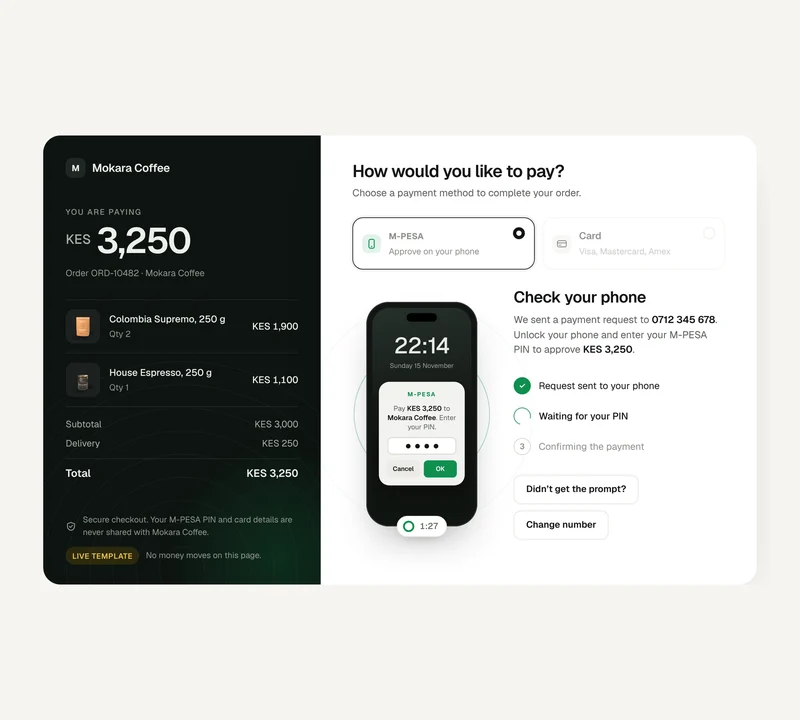
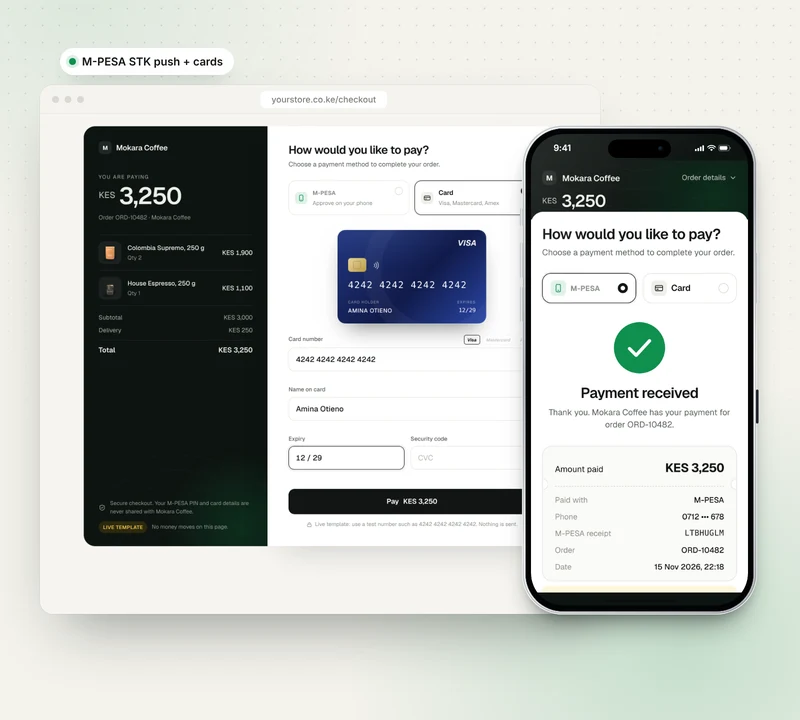
Pay Kit: iPhone 17 Pro Max mockup for the M-PESA prompt and a new product preview
Claude-Session: https://claude.ai/code/session_01QHU95bsMraAsMh3RSFKTgA

diff --git a/pay-kit/pay.css b/pay-kit/pay.css
@@ -99,20 +99,19 @@ button { cursor: pointer; background: none; border: 0; }
 .links { margin-top: 18px; display: flex; flex-wrap: wrap; justify-content: center; gap: 8px 22px; font-size: 14px; }
 
 /* ---------- M-PESA: the phone prompt ---------- */
-.wait { display: grid; grid-template-columns: 210px 1fr; gap: 34px; align-items: center; }
-.phone-wrap { position: relative; width: 210px; height: 360px; display: grid; place-items: center; }
-.ring { position: absolute; left: 50%; top: 50%; width: 170px; height: 170px; margin: -85px 0 0 -85px; border-radius: 50%; border: 1.5px solid var(--mpesa); opacity: 0; animation: ripple 3s var(--ease) infinite; }
+.wait { display: grid; grid-template-columns: 220px 1fr; gap: 34px; align-items: center; }
+.phone-wrap { position: relative; width: 220px; height: 450px; display: grid; place-items: center; }
+.ring { position: absolute; left: 50%; top: 50%; width: 180px; height: 180px; margin: -90px 0 0 -90px; border-radius: 50%; border: 1.5px solid var(--mpesa); opacity: 0; animation: ripple 3s var(--ease) infinite; }
 .ring:nth-child(2) { animation-delay: 1s; } .ring:nth-child(3) { animation-delay: 2s; }
 @keyframes ripple { 0% { transform: scale(.6); opacity: .55; } 100% { transform: scale(2.1); opacity: 0; } }
 .done .ring, .fail .ring { display: none; }
-.phone { position: relative; width: 168px; height: 340px; border-radius: 34px; background: #121513; padding: 9px; box-shadow: 0 30px 60px -24px rgba(14,20,17,.45), inset 0 0 0 1.5px #2D322E; animation: buzz 3s ease-in-out infinite; }
+.phone { position: relative; width: 196px; --ip-scr: #141A16; --ip-ink: #fff; animation: buzz 3s ease-in-out infinite; }
 @keyframes buzz { 0%, 86%, 100% { transform: rotate(0); } 88% { transform: rotate(-2.5deg); } 90% { transform: rotate(2.5deg); } 92% { transform: rotate(-2deg); } 94% { transform: rotate(1.5deg); } }
 .done .phone, .fail .phone { animation: none; }
-.phone .scr { position: relative; height: 100%; border-radius: 26px; overflow: hidden; background: linear-gradient(170deg, #26302A, #101411 60%); }
-.phone .isl { position: absolute; left: 50%; top: 8px; width: 46px; height: 13px; margin-left: -23px; border-radius: 9px; background: #000; z-index: 3; }
-.phone .clock { position: absolute; left: 0; right: 0; top: 40px; text-align: center; color: rgba(255,255,255,.9); font: 500 34px/1 var(--f); letter-spacing: -.02em; }
-.phone .date { position: absolute; left: 0; right: 0; top: 80px; text-align: center; color: rgba(255,255,255,.55); font-size: 10px; }
-.sheet { position: absolute; left: 10px; right: 10px; top: 112px; border-radius: 16px; background: rgba(250,250,247,.97); color: var(--t1); padding: 13px 12px 12px; text-align: center; box-shadow: 0 10px 30px rgba(0,0,0,.35); transform: translateY(16px) scale(.94); opacity: 0; animation: pop .7s var(--ease) .5s forwards; }
+.phone .scr { background: radial-gradient(120% 70% at 50% 0%, #2B3A31, #121714 70%); }
+.phone .clock { position: absolute; z-index: 2; left: 0; right: 0; top: 16%; text-align: center; color: rgba(255,255,255,.92); font: 500 40px/1 var(--f); letter-spacing: -.02em; }
+.phone .date { position: absolute; z-index: 2; left: 0; right: 0; top: 11%; text-align: center; color: rgba(255,255,255,.6); font-size: 10.5px; font-weight: 500; }
+.sheet { position: absolute; z-index: 2; left: 9px; right: 9px; top: 33%; border-radius: 16px; background: rgba(250,250,247,.97); color: var(--t1); padding: 13px 12px 12px; text-align: center; box-shadow: 0 10px 30px rgba(0,0,0,.35); transform: translateY(16px) scale(.94); opacity: 0; animation: pop .7s var(--ease) .5s forwards; }
 @keyframes pop { to { transform: none; opacity: 1; } }
 .sheet .h { font-size: 9px; font-weight: 700; letter-spacing: .14em; color: var(--mpesa); }
 .sheet .w { margin-top: 6px; font-size: 10.5px; line-height: 1.35; color: var(--t2); }
@@ -125,10 +124,10 @@ button { cursor: pointer; background: none; border: 0; }
 .sheet .bt span { padding: 6px 0; border-radius: 6px; background: #ECEBE6; }
 .sheet .bt span + span { background: var(--mpesa); color: #fff; }
 .done .sheet .pin, .done .sheet .bt, .fail .sheet .pin, .fail .sheet .bt { display: none; }
-.badge-ok { position: absolute; z-index: 4; left: 50%; top: 50%; width: 64px; height: 64px; margin: -32px 0 0 -32px; border-radius: 50%; display: grid; place-items: center; background: var(--ok); color: #fff; box-shadow: 0 0 0 10px color-mix(in srgb, var(--ok) 18%, transparent); animation: boom .6s var(--ease) both; }
+.badge-ok { position: absolute; z-index: 5; left: 50%; top: 50%; width: 64px; height: 64px; margin: -32px 0 0 -32px; border-radius: 50%; display: grid; place-items: center; background: var(--ok); color: #fff; box-shadow: 0 0 0 10px color-mix(in srgb, var(--ok) 18%, transparent); animation: boom .6s var(--ease) both; }
 .badge-ok.no { background: var(--err); box-shadow: 0 0 0 10px rgba(194,59,34,.16); }
 @keyframes boom { from { transform: scale(.3); opacity: 0; } }
-.timer { position: absolute; left: 50%; bottom: -6px; transform: translateX(-50%); display: flex; align-items: center; gap: 8px; padding: 6px 12px 6px 8px; border-radius: 99px; background: #fff; border: 1px solid var(--line); font: 500 13px var(--f); color: var(--t2); font-variant-numeric: tabular-nums; white-space: nowrap; box-shadow: 0 6px 18px -10px rgba(0,0,0,.3); }
+.timer { position: absolute; z-index: 6; left: 50%; bottom: -8px; transform: translateX(-50%); display: flex; align-items: center; gap: 8px; padding: 6px 12px 6px 8px; border-radius: 99px; background: #fff; border: 1px solid var(--line); font: 500 13px var(--f); color: var(--t2); font-variant-numeric: tabular-nums; white-space: nowrap; box-shadow: 0 6px 18px -10px rgba(0,0,0,.3); }
 .timer svg { transform: rotate(-90deg); }
 .timer circle { fill: none; stroke-width: 3; }
 .timer .bg { stroke: #ECEBE6; } .timer .fg { stroke: var(--mpesa); stroke-linecap: round; transition: stroke-dashoffset 1s linear; }
@@ -228,7 +227,7 @@ button { cursor: pointer; background: none; border: 0; }
 
 /* ---------- demo panel ---------- */
 .demo { position: fixed; z-index: 50; right: 18px; bottom: 18px; display: flex; align-items: center; gap: 10px; padding: 8px 8px 8px 14px; border-radius: 14px; background: #121513; color: #EDEFEA; font-size: 13px; box-shadow: 0 18px 40px -16px rgba(0,0,0,.5); }
-.demo b { color: #F2C14E; font-weight: 600; letter-spacing: .06em; font-size: 11.5px; }
+.demo b { white-space: nowrap; color: #F2C14E; font-weight: 600; letter-spacing: .06em; font-size: 11.5px; }
 .demo select { height: 34px; border-radius: 9px; border: 1px solid #2E342F; background: #1C211D; color: #EDEFEA; padding: 0 10px; font-size: 13px; }
 
 /* ---------- small screens ---------- */
@@ -247,7 +246,7 @@ button { cursor: pointer; background: none; border: 0; }
   .sum .amtrow { margin-top: 14px; display: flex; align-items: flex-end; justify-content: space-between; }
   .pay { border-radius: 22px 22px 0 0; margin-top: -14px; padding: 26px 20px 30px; min-height: 0; box-shadow: none; }
   .wait { grid-template-columns: 1fr; gap: 18px; text-align: center; }
-  .phone-wrap { margin: 0 auto; transform: scale(.86); height: 320px; }
+  .phone-wrap { margin: 0 auto; transform: scale(.86); height: 400px; transform-origin: 50% 40%; }
   .steps { justify-items: center; }
   .acts { justify-content: center; }
   .cc { transform: scale(.92) rotateX(var(--rx)) rotateY(var(--ry)); }

diff --git a/pay-kit/ip17.css b/pay-kit/ip17.css
@@ -1,0 +1,38 @@
+/* ============================================================
+   iPhone 17 Pro Max mockup — shared by every phone mockup on the site.
+   Proportions follow the 6.9" display (440 × 956 pt): thin uniform
+   bezels, Dynamic Island, aluminium frame with Action button, volume,
+   side button and Camera Control. All sizes are in cqw of .ip17, so
+   the phone scales cleanly at any width.
+
+   <div class="ip17 ip17--blue">                (sets the width)
+     <div class="ip17__body"><i class="ip17__k ip17__k--act"></i>…
+       <div class="ip17__bezel"><div class="ip17__scr">
+         <div class="ip17__sb">9:41 + icons</div><i class="ip17__di"></i>
+         <img|video>  <i class="ip17__hb"></i>
+   ============================================================ */
+.ip17{container-type:inline-size;--ip-a:#56678A;--ip-b:#1C2539;--ip-hi:rgba(255,255,255,.55);--ip-scr:#fff;--ip-ink:#111}
+.ip17--blue{--ip-a:#56678A;--ip-b:#1C2539;--ip-hi:rgba(214,226,255,.55)}           /* Deep Blue */
+.ip17--orange{--ip-a:#F39A55;--ip-b:#B4501A;--ip-hi:rgba(255,214,180,.7)}          /* Cosmic Orange */
+.ip17--silver{--ip-a:#F4F5F6;--ip-b:#AEB2B8;--ip-hi:rgba(255,255,255,.95)}         /* Silver */
+.ip17__body{position:relative;border-radius:17.4cqw;padding:1.45cqw;
+  background:linear-gradient(140deg,var(--ip-a) 0%,var(--ip-b) 38%,var(--ip-a) 62%,var(--ip-b) 100%);
+  box-shadow:inset 0 0 0 .3cqw var(--ip-hi),inset 0 0 0 .75cqw rgba(0,0,0,.18),0 40px 60px -28px rgba(14,22,18,.55),0 12px 24px -12px rgba(14,22,18,.3)}
+.ip17__bezel{border-radius:16cqw;background:#030405;padding:2.35cqw;box-shadow:inset 0 0 0 .25cqw #1A1C20}
+.ip17__scr{position:relative;display:flex;flex-direction:column;aspect-ratio:440/956;border-radius:13.7cqw;overflow:hidden;background:var(--ip-scr);-webkit-mask-image:-webkit-radial-gradient(white,black);isolation:isolate;padding-bottom:5.6cqw}
+/* the bottom 34pt is the home-indicator safe area, as on iOS — content never sits under the bar */
+.ip17__scr::after{content:"";position:absolute;inset:0;z-index:3;pointer-events:none;background:linear-gradient(125deg,rgba(255,255,255,.10) 0%,rgba(255,255,255,0) 34%)}
+/* status bar sits in the safe area beside the Dynamic Island */
+.ip17__sb{flex:none;position:relative;z-index:2;height:11.4cqw;display:flex;align-items:center;justify-content:space-between;padding:.6cqw 7.2cqw 0 9.6cqw;background:var(--ip-scr);color:var(--ip-ink);font:600 3.75cqw/1 -apple-system,BlinkMacSystemFont,"SF Pro Text",Inter,"Segoe UI",system-ui,sans-serif;letter-spacing:-.01em}
+.ip17__sb svg{width:15.4cqw;height:auto;fill:currentColor;stroke:currentColor;display:block}
+.ip17__di{position:absolute;z-index:4;left:50%;top:2.35cqw;width:26.8cqw;height:7.8cqw;margin-left:-13.4cqw;border-radius:5cqw;background:#000}
+.ip17__di::after{content:"";position:absolute;right:3.2cqw;top:50%;width:2.4cqw;height:2.4cqw;margin-top:-1.2cqw;border-radius:50%;background:radial-gradient(circle at 35% 35%,#1E2A44 0%,#05070C 60%)}
+.ip17__scr>img,.ip17__scr>video{position:relative;z-index:1;flex:1;min-height:0;width:100%;height:auto;object-fit:cover;object-position:top center;display:block;border-radius:0}
+.ip17__hb{position:absolute;z-index:4;left:50%;bottom:1.7cqw;width:30cqw;height:1.05cqw;margin-left:-15cqw;border-radius:1cqw;background:rgba(10,10,10,.82)}
+/* buttons on the aluminium frame */
+.ip17__k{position:absolute;width:1.15cqw;border-radius:.7cqw;background:linear-gradient(90deg,var(--ip-b),var(--ip-a) 60%,var(--ip-b))}
+.ip17__k--act{left:-.85cqw;top:17%;height:3.6%}
+.ip17__k--vu{left:-.85cqw;top:24%;height:7.2%}
+.ip17__k--vd{left:-.85cqw;top:33%;height:7.2%}
+.ip17__k--pwr{right:-.85cqw;top:26%;height:10.5%}
+.ip17__k--cam{right:-.55cqw;top:54%;height:7%;width:.9cqw;background:linear-gradient(90deg,#0B0D12,#2A3142 55%,#0B0D12)}

diff --git a/pay-kit/pay.js b/pay-kit/pay.js
@@ -125,10 +125,11 @@
 
   function mpWait() {
     methodsLocked(true);
-    var now = new Date(), W = waitFor();
+    var now = new Date(), W = waitFor(), hm = now.toLocaleTimeString('en-GB', { hour: '2-digit', minute: '2-digit' });
     var st = view('<div class="wait" id="wv"><div class="phone-wrap" aria-hidden="true"><i class="ring"></i><i class="ring"></i><i class="ring"></i>' +
-      '<div class="phone"><div class="scr"><i class="isl"></i><div class="clock num">' + now.toLocaleTimeString('en-GB', { hour: '2-digit', minute: '2-digit' }) + '</div><div class="date">' + now.toLocaleDateString('en-GB', { weekday: 'long', day: 'numeric', month: 'long' }) + '</div>' +
-      '<div class="sheet"><div class="h">M-PESA</div><div class="w">Pay <b>' + money(TOTAL) + '</b> to <b>' + esc(C.merchant.name) + '</b>. Enter your PIN.</div><div class="pin"><i></i><i></i><i></i><i></i></div><div class="bt"><span>Cancel</span><span>OK</span></div></div></div></div>' +
+      '<div class="phone ip17 ip17--silver"><div class="ip17__body"><i class="ip17__k ip17__k--act"></i><i class="ip17__k ip17__k--vu"></i><i class="ip17__k ip17__k--vd"></i><i class="ip17__k ip17__k--pwr"></i><i class="ip17__k ip17__k--cam"></i><div class="ip17__bezel"><div class="ip17__scr scr"><div class="ip17__sb"><span>' + hm + '</span><svg viewBox="0 0 68 13" aria-hidden="true"><rect x="0" y="8.5" width="3" height="4" rx="1" stroke="none"/><rect x="4.6" y="6.5" width="3" height="6" rx="1" stroke="none"/><rect x="9.2" y="4" width="3" height="8.5" rx="1" stroke="none"/><rect x="13.8" y="1.5" width="3" height="11" rx="1" stroke="none"/><path d="M31 12.4 28.5 9.7a3.5 3.5 0 0 1 5 0Z" stroke="none"/><path d="M26.1 7.3a6.9 6.9 0 0 1 9.8 0M23.7 4.8a10.3 10.3 0 0 1 14.6 0" fill="none" stroke-width="1.7" stroke-linecap="round"/><rect x="44.5" y="1.2" width="20" height="10.6" rx="3.2" fill="none" stroke-width="1.1" opacity=".45"/><rect x="46.3" y="3" width="14.6" height="7" rx="1.7" stroke="none"/><rect x="65.6" y="4.6" width="1.6" height="3.8" rx=".8" stroke="none" opacity=".45"/></svg></div><i class="ip17__di"></i>' +
+      '<div class="clock num">' + hm + '</div><div class="date">' + now.toLocaleDateString('en-GB', { weekday: 'long', day: 'numeric', month: 'long' }) + '</div>' +
+      '<div class="sheet"><div class="h">M-PESA</div><div class="w">Pay <b>' + money(TOTAL) + '</b> to <b>' + esc(C.merchant.name) + '</b>. Enter your PIN.</div><div class="pin"><i></i><i></i><i></i><i></i></div><div class="bt"><span>Cancel</span><span>OK</span></div></div><i class="ip17__hb"></i></div></div></div></div>' +
       '<div class="timer" id="tm"><svg width="18" height="18" viewBox="0 0 20 20"><circle class="bg" cx="10" cy="10" r="8"/><circle class="fg" id="tmc" cx="10" cy="10" r="8" stroke-dasharray="50.27" stroke-dashoffset="0"/></svg><span id="tmt">' + clock(W) + '</span></div></div>' +
       '<div><h2 tabindex="-1" id="wh">Check your phone</h2><p>We sent a payment request to <b>' + showPhone(S.mp.phone) + '</b>. Unlock your phone and enter your M-PESA PIN to approve <b>' + money(TOTAL) + '</b>.</p>' +
       '<ol class="steps"><li id="s1"><span class="s">1</span>Request sent to your phone</li><li id="s2"><span class="s">2</span>Waiting for your PIN</li><li id="s3"><span class="s">3</span>Confirming the payment</li></ol>' +

diff --git a/data/products.js b/data/products.js
@@ -17,7 +17,7 @@ window.CIEL.products = [
   { id:"prd-test", art:"mpesa-stk", name:"Test Product (M-Pesa test)", category:"Payments & M-Pesa", desc:"A KES 10 test item for checking M-Pesa checkout end to end. This product removes itself automatically after 24 hours.", meta:"Test only · KES 10 · Auto-expires", price:10, rating:5.0, reviews:0, badge:"new", image:"", expires:1792655280000 },
 
   /* Pay Kit: live template at /pay-kit/ (settings in pay-kit/config.js) */
-  { id:"prd-paykit", art:"mpesa-stk", name:"Pay Kit: M-PESA & Card Checkout", category:"Payments & M-Pesa", desc:"A checkout page for M-PESA STK push and cards: a live phone prompt with countdown and status, a live card preview, bank verification, clear failure messages and printable receipts. Connects to your Daraja and card provider endpoints.", meta:"STK push · Cards · Receipts · Mobile-first", price:5000, link:"/pay-kit/", cta:"Live template", rating:5.0, reviews:0, badge:"new", image:"/assets/img/products/pay-kit.webp?v=20261115b" },
+  { id:"prd-paykit", art:"mpesa-stk", name:"Pay Kit: M-PESA & Card Checkout", category:"Payments & M-Pesa", desc:"A checkout page for M-PESA STK push and cards: a live phone prompt with countdown and status, a live card preview, bank verification, clear failure messages and printable receipts. Connects to your Daraja and card provider endpoints.", meta:"STK push · Cards · Receipts · Mobile-first", price:5000, link:"/pay-kit/", cta:"Live template", rating:5.0, reviews:0, badge:"new", image:"/assets/img/products/pay-kit.webp?v=20261115c" },
   { id:"prd-01", art:"mpesa-stk", name:"M-Pesa STK Push (Daraja)", category:"Payments & M-Pesa", desc:"WordPress & WooCommerce plugin for Safaricom Daraja STK Push — Lipa na M-Pesa checkout, C2B/B2C callbacks, auto-reconciliation and receipts.", meta:"Daraja API · STK Push · WooCommerce · Sandbox & Live", price:4500, rating:5.0, reviews:0, badge:"popular", image:"" },
   { id:"prd-02", art:"woo-mpesa", name:"M-Pesa WooCommerce Gateway", category:"Payments & M-Pesa", desc:"Full checkout gateway with Paybill/Till support, instant confirmation, order status sync and downloadable statements.", meta:"Paybill & Till · Instant confirm · Order sync", price:6500, rating:4.9, reviews:0, badge:"new", image:"" },
   { id:"prd-03", art:"sacco", name:"SACCO & Microfinance System", category:"Business Systems", desc:"Members, savings, loans, guarantors, dividends and M-Pesa disbursement — built for Kenyan SACCOs and chamas.", meta:"Loans · Savings · Dividends · M-Pesa payouts", price:55000, rating:5.0, reviews:0, badge:"popular", image:"" },

diff --git a/pay-kit/index.html b/pay-kit/index.html
@@ -16,7 +16,8 @@
 <link rel="preconnect" href="https://fonts.googleapis.com">
 <link rel="preconnect" href="https://fonts.gstatic.com" crossorigin>
 <link rel="stylesheet" href="https://fonts.googleapis.com/css2?family=Geist:wght@400;500;600;700&family=Geist+Mono:wght@500&display=swap">
-<link rel="stylesheet" href="pay.css?v=20261115b">
+<link rel="stylesheet" href="ip17.css?v=20261115a">
+<link rel="stylesheet" href="pay.css?v=20261115d">
 </head>
 <body>
 <style>.cstrip{position:relative;z-index:60;display:flex;align-items:center;justify-content:space-between;gap:12px;height:40px;padding:0 max(16px,calc((100% - 1320px)/2 + 16px));background:#121212;color:#cfcfcf;font:500 13px/1 system-ui,-apple-system,"Segoe UI",sans-serif}
@@ -31,6 +32,6 @@
 <div class="sr" id="live" aria-live="polite"></div>
 <noscript><p style="padding:40px;font-family:sans-serif">This checkout needs JavaScript turned on.</p></noscript>
 <script src="config.js?v=20261115b"></script>
-<script src="pay.js?v=20261115b"></script>
+<script src="pay.js?v=20261115c"></script>
 </body>
 </html>
